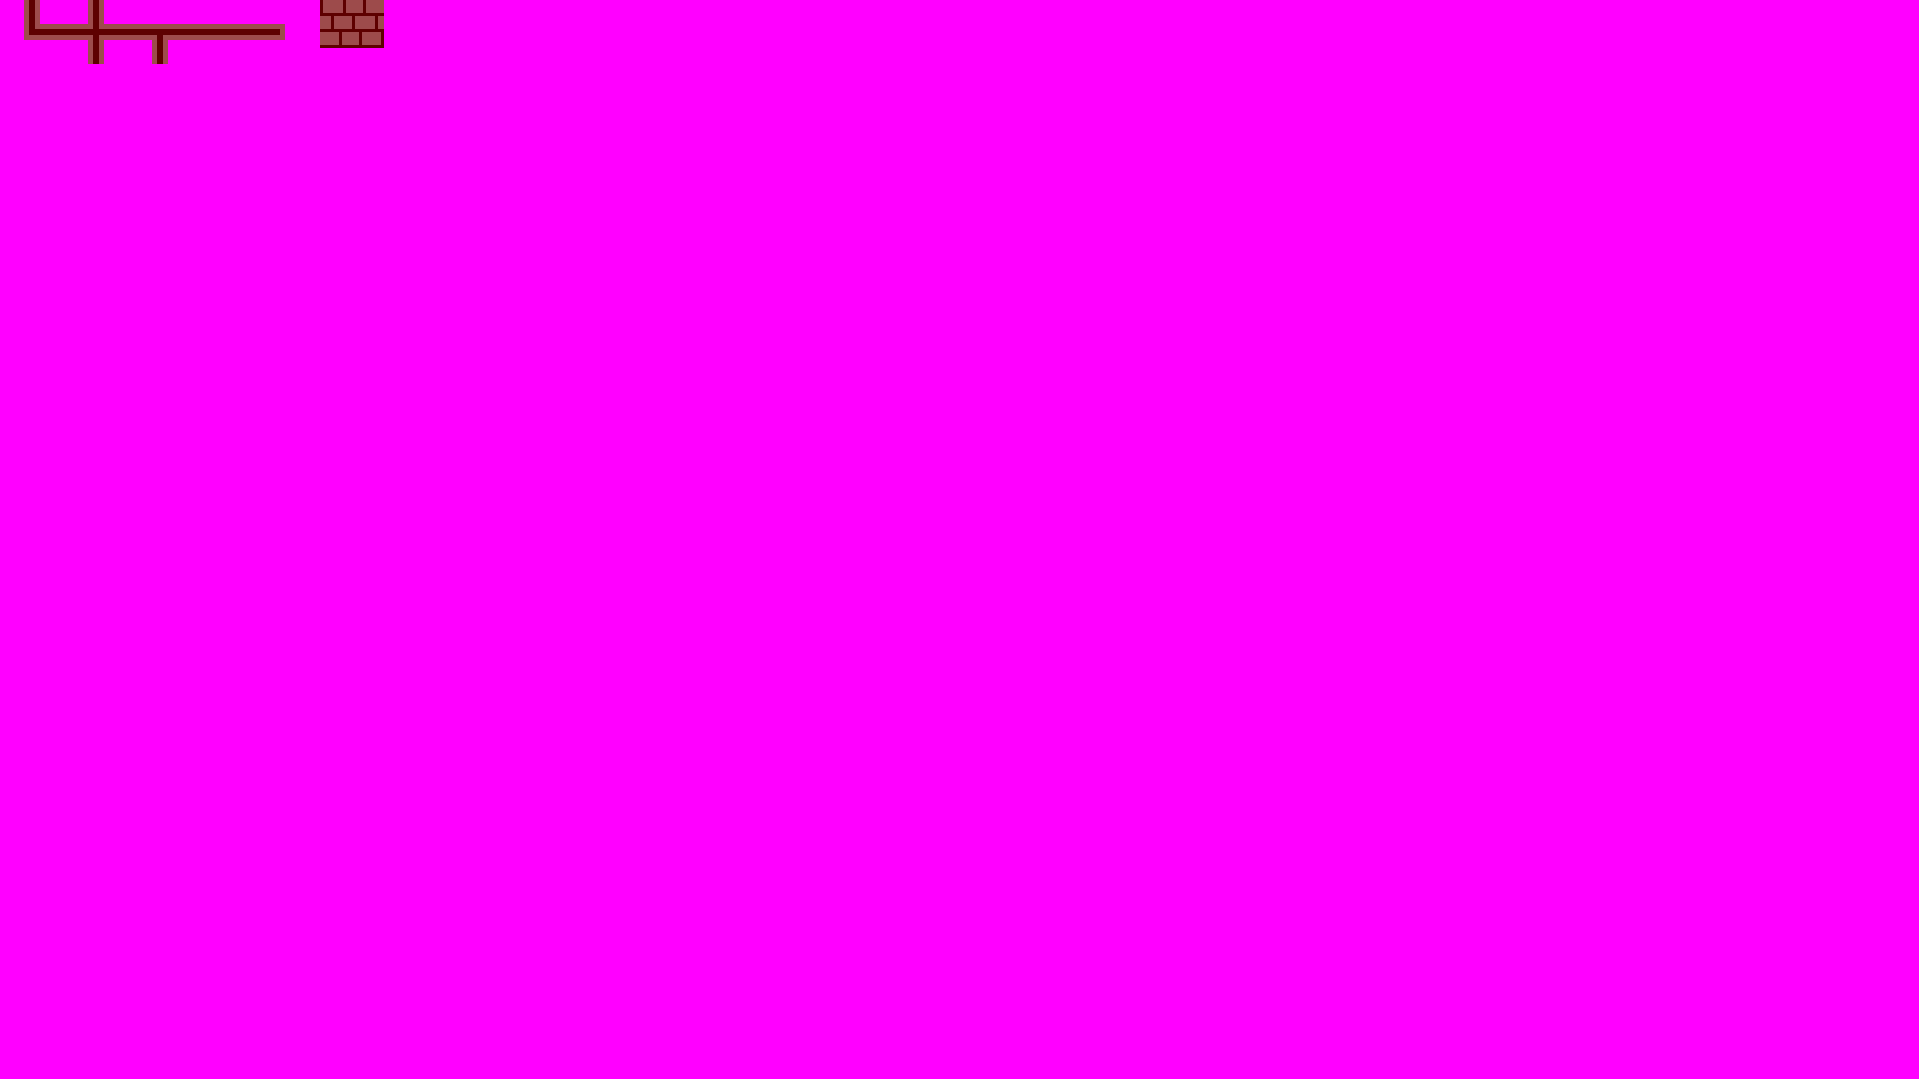
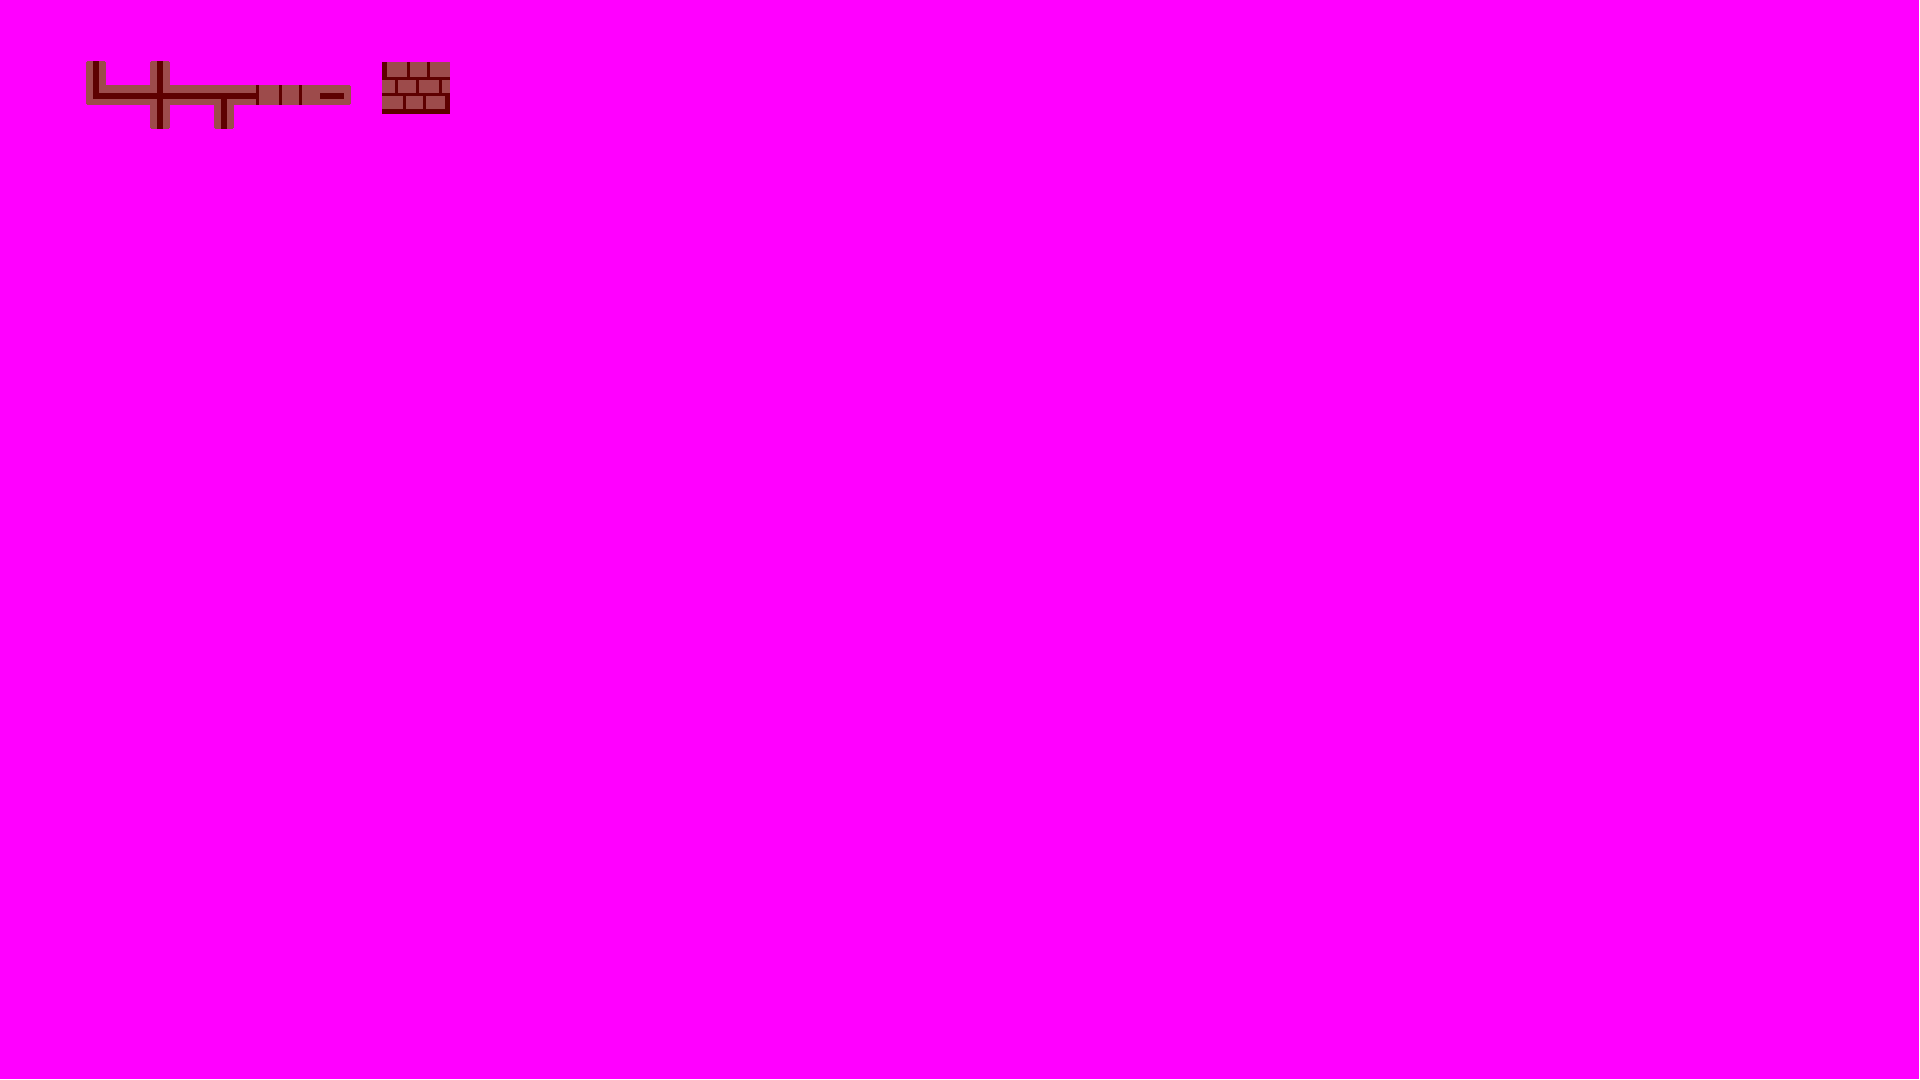
Small fixes

Changed region(s): [[0.0, 0.0, 0.25, 0.1222]]

diff --git a/src/main.rs b/src/main.rs
@@ -63,7 +63,7 @@ mod wall {
     const CELL_SIZE: f32 = 64.;
     const WIDTH: f32 = 16.;
     const HEIGHT: f32 = 48.;
-    const FACE_TEX_OFFSET: Vector2<f32> = Vector2 { x: 320., y: 0. };
+    const FACE_TEX_OFFSET: Vector2<f32> = Vector2 { x: 384., y: 64. };
     const FACE_TEX_HEIGHT: f32 = 48.;
     const QUAD_INDICES: [u32; 6] = [0, 1, 2, 0, 2, 3];
 
@@ -108,7 +108,7 @@ mod wall {
     }
 
     pub fn straight() -> VerticesAndOffsets<Vertex> {
-        const TOP_TEX_OFFSET: Vector2<f32> = Vector2 { x: 192., y: 0. };
+        const TOP_TEX_OFFSET: Vector2<f32> = Vector2 { x: 256., y: 64. };
         let start_x = CELL_SIZE / 2. - WIDTH / 2.;
         let cross_section = [
             vec2(0., start_x),
@@ -123,9 +123,9 @@ mod wall {
             &[(cross_section[0], 0.), (cross_section[1], CELL_SIZE)],
         );
         let b = extrude_disconnected(
-            FACE_TEX_OFFSET,
+            FACE_TEX_OFFSET + vec2(CELL_SIZE, 0.),
             FACE_TEX_HEIGHT,
-            &[(cross_section[2], 0.), (cross_section[3], CELL_SIZE)],
+            &[(cross_section[2], 0.), (cross_section[3], -CELL_SIZE)],
         );
         let top = VerticesAndOffsets {
             vertices: cross_section
@@ -258,8 +258,10 @@ fn main() {
         aspect_ratio: (width / height) as f32,
     };
 
+    let mut camera_move = vec3(0., 0., 0.);
     let mut running = true;
     while running {
+        camera.position += camera_move;
         encoder.clear(&data.out_colour, [0., 0., 0., 1.]);
         encoder.clear_depth(&data.out_depth, 1.);
         let camera_transform = camera.transform();
@@ -290,20 +292,47 @@ fn main() {
                         match input.state {
                             glutin::ElementState::Pressed => match virtual_keycode {
                                 glutin::VirtualKeyCode::Left => {
-                                    camera.position.x -= step;
+                                    camera_move.x = -step;
                                 }
                                 glutin::VirtualKeyCode::Right => {
-                                    camera.position.x += step;
+                                    camera_move.x = step;
                                 }
                                 glutin::VirtualKeyCode::Up => {
-                                    camera.position.z -= step;
+                                    camera_move.z = -step;
                                 }
                                 glutin::VirtualKeyCode::Down => {
-                                    camera.position.z += step;
+                                    camera_move.z = step;
+                                }
+                                glutin::VirtualKeyCode::A => {
+                                    camera_move.y = -step;
+                                }
+                                glutin::VirtualKeyCode::S => {
+                                    camera_move.y = step;
+                                }
+
+                                _ => (),
+                            },
+                            glutin::ElementState::Released => match virtual_keycode {
+                                glutin::VirtualKeyCode::Left => {
+                                    camera_move.x = 0.;
+                                }
+                                glutin::VirtualKeyCode::Right => {
+                                    camera_move.x = 0.;
+                                }
+                                glutin::VirtualKeyCode::Up => {
+                                    camera_move.z = 0.;
+                                }
+                                glutin::VirtualKeyCode::Down => {
+                                    camera_move.z = 0.;
+                                }
+                                glutin::VirtualKeyCode::A => {
+                                    camera_move.y = 0.;
+                                }
+                                glutin::VirtualKeyCode::S => {
+                                    camera_move.y = 0.;
                                 }
                                 _ => (),
                             },
-                            _ => (),
                         }
                     }
                 }
